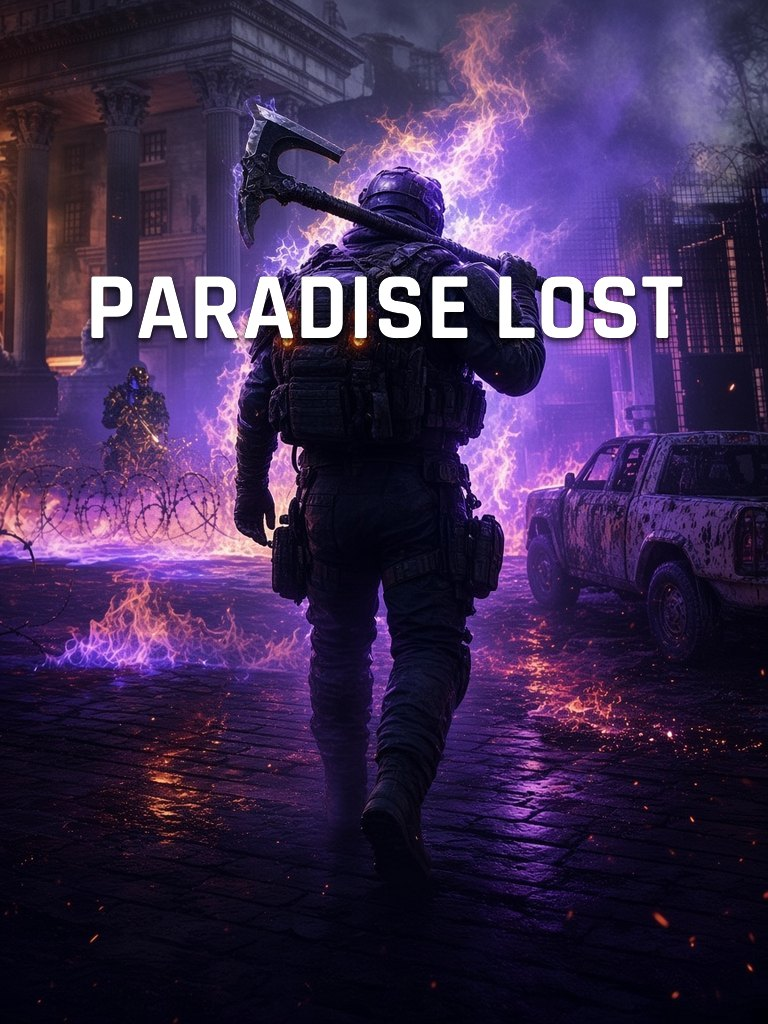
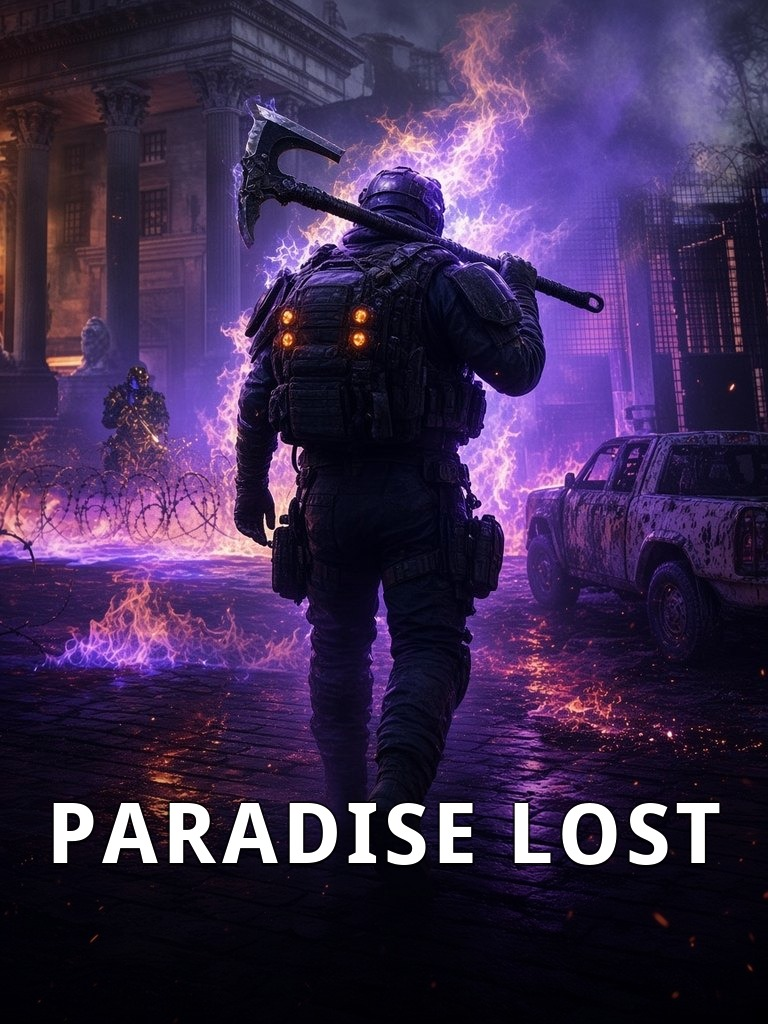
Move clan card titles down and caption the built-in art grid.
Raid and incursion titles sit in the lower quarter of the art. The Dark Zone mark uses the same worn treatment and placement as Conflict, and Conflict is slightly smaller.

diff --git a/admin.html b/admin.html
@@ -6,12 +6,12 @@
   <meta http-equiv="Cache-Control" content="no-cache, no-store, must-revalidate">
   <meta http-equiv="Pragma" content="no-cache">
   <meta http-equiv="Expires" content="0">
-  <meta name="stf-build" content="b1569be">
+  <meta name="stf-build" content="card-art1">
   <meta name="viewport" content="width=device-width, initial-scale=1">
   <meta name="theme-color" content="#0B0D10">
   <title>Admin — Shade Hub</title>
   <link rel="icon" href="assets/clan-mark.svg" type="image/svg+xml">
-  <link rel="stylesheet" href="styles.css?v=b1569be">
+  <link rel="stylesheet" href="styles.css?v=card-art1">
   <link rel="stylesheet" href="https://cdn.jsdelivr.net/npm/quill@1.3.7/dist/quill.snow.css">
 </head>
 <body class="page-admin is-logged-out">
@@ -251,17 +251,17 @@
   <script src="https://cdn.jsdelivr.net/npm/@supabase/supabase-js@2"></script>
   <script src="https://cdn.jsdelivr.net/npm/dompurify@3.2.4/dist/purify.min.js"></script>
   <script src="https://cdn.jsdelivr.net/npm/quill@1.3.7/dist/quill.min.js"></script>
-<script src="js/supabase.js?v=b1569be"></script>
-  <script src="js/common.js?v=b1569be"></script>
-  <script src="js/event-cards.js?v=b1569be"></script>
-  <script src="js/icons.js?v=b1569be"></script>
-  <script src="js/build-admin.js?v=b1569be"></script>
-  <script src="js/builder/engine.js?v=b1569be"></script>
-  <script src="js/builder/catalog.js?v=b1569be"></script>
-  <script src="js/builder/calc.js?v=b1569be"></script>
-  <script src="js/builder/calc-ui.js?v=b1569be"></script>
-  <script src="js/builder/ui.js?v=b1569be"></script>
-  <script src="js/admin.js?v=b1569be"></script>
+<script src="js/supabase.js?v=card-art1"></script>
+  <script src="js/common.js?v=card-art1"></script>
+  <script src="js/event-cards.js?v=card-art1"></script>
+  <script src="js/icons.js?v=card-art1"></script>
+  <script src="js/build-admin.js?v=card-art1"></script>
+  <script src="js/builder/engine.js?v=card-art1"></script>
+  <script src="js/builder/catalog.js?v=card-art1"></script>
+  <script src="js/builder/calc.js?v=card-art1"></script>
+  <script src="js/builder/calc-ui.js?v=card-art1"></script>
+  <script src="js/builder/ui.js?v=card-art1"></script>
+  <script src="js/admin.js?v=card-art1"></script>
 <script data-stf-toast>
 (function () {
   var meta = document.querySelector('meta[name="stf-build"]');

diff --git a/resources.html b/resources.html
@@ -5,12 +5,12 @@
   <meta http-equiv="Cache-Control" content="no-cache, no-store, must-revalidate">
   <meta http-equiv="Pragma" content="no-cache">
   <meta http-equiv="Expires" content="0">
-  <meta name="stf-build" content="b1569be">
+  <meta name="stf-build" content="card-art1">
   <meta name="viewport" content="width=device-width, initial-scale=1, viewport-fit=cover">
   <meta name="theme-color" content="#0B0D10">
   <title>Resources — Shade Hub</title>
   <link rel="icon" href="assets/clan-mark.svg" type="image/svg+xml">
-  <link rel="stylesheet" href="styles.css?v=b1569be">
+  <link rel="stylesheet" href="styles.css?v=card-art1">
 </head>
 <body class="page-resources">
   <div id="topbar-root"></div>
@@ -51,13 +51,13 @@
   <div id="bottomnav-root"></div>
   <script src="https://cdn.jsdelivr.net/npm/@supabase/supabase-js@2"></script>
   <script src="https://cdn.jsdelivr.net/npm/dompurify@3.2.4/dist/purify.min.js"></script>
-  <script src="js/supabase.js?v=b1569be"></script>
-  <script src="js/common.js?v=b1569be"></script>
-  <script src="js/icons.js?v=b1569be"></script>
-  <script src="js/builder/engine.js?v=b1569be"></script>
-  <script src="js/builder/catalog.js?v=b1569be"></script>
-  <script src="js/resources.js?v=b1569be"></script>
-  <script src="js/builds.js?v=b1569be"></script>
+  <script src="js/supabase.js?v=card-art1"></script>
+  <script src="js/common.js?v=card-art1"></script>
+  <script src="js/icons.js?v=card-art1"></script>
+  <script src="js/builder/engine.js?v=card-art1"></script>
+  <script src="js/builder/catalog.js?v=card-art1"></script>
+  <script src="js/resources.js?v=card-art1"></script>
+  <script src="js/builds.js?v=card-art1"></script>
 <script data-stf-toast>
 (function () {
   var meta = document.querySelector('meta[name="stf-build"]');

diff --git a/index.html b/index.html
@@ -5,13 +5,13 @@
   <meta http-equiv="Cache-Control" content="no-cache, no-store, must-revalidate">
   <meta http-equiv="Pragma" content="no-cache">
   <meta http-equiv="Expires" content="0">
-  <meta name="stf-build" content="b1569be">
+  <meta name="stf-build" content="card-art1">
   <meta name="viewport" content="width=device-width, initial-scale=1, viewport-fit=cover">
   <meta name="theme-color" content="#0B0D10">
   <meta name="description" content="Shade Hub — Division 2 clan updates, events, loot, builds, and resources.">
   <title>Updates — Shade Hub</title>
   <link rel="icon" href="assets/clan-mark.svg" type="image/svg+xml">
-  <link rel="stylesheet" href="styles.css?v=b1569be">
+  <link rel="stylesheet" href="styles.css?v=card-art1">
 </head>
 <body class="page-updates">
   <div id="topbar-root"></div>
@@ -26,9 +26,9 @@
   <div id="bottomnav-root"></div>
   <script src="https://cdn.jsdelivr.net/npm/@supabase/supabase-js@2"></script>
   <script src="https://cdn.jsdelivr.net/npm/dompurify@3.2.4/dist/purify.min.js"></script>
-  <script src="js/supabase.js?v=b1569be"></script>
-  <script src="js/common.js?v=b1569be"></script>
-  <script src="js/updates.js?v=b1569be"></script>
+  <script src="js/supabase.js?v=card-art1"></script>
+  <script src="js/common.js?v=card-art1"></script>
+  <script src="js/updates.js?v=card-art1"></script>
 <script data-stf-toast>
 (function () {
   var meta = document.querySelector('meta[name="stf-build"]');

diff --git a/events.html b/events.html
@@ -5,12 +5,12 @@
   <meta http-equiv="Cache-Control" content="no-cache, no-store, must-revalidate">
   <meta http-equiv="Pragma" content="no-cache">
   <meta http-equiv="Expires" content="0">
-  <meta name="stf-build" content="b1569be">
+  <meta name="stf-build" content="card-art1">
   <meta name="viewport" content="width=device-width, initial-scale=1, viewport-fit=cover">
   <meta name="theme-color" content="#0B0D10">
   <title>Events — Shade Hub</title>
   <link rel="icon" href="assets/clan-mark.svg" type="image/svg+xml">
-  <link rel="stylesheet" href="styles.css?v=b1569be">
+  <link rel="stylesheet" href="styles.css?v=card-art1">
 </head>
 <body class="page-events">
   <div id="topbar-root"></div>
@@ -33,10 +33,10 @@
   <div id="bottomnav-root"></div>
   <script src="https://cdn.jsdelivr.net/npm/@supabase/supabase-js@2"></script>
   <script src="https://cdn.jsdelivr.net/npm/dompurify@3.2.4/dist/purify.min.js"></script>
-  <script src="js/supabase.js?v=b1569be"></script>
-  <script src="js/common.js?v=b1569be"></script>
-  <script src="js/event-cards.js?v=b1569be"></script>
-  <script src="js/events.js?v=b1569be"></script>
+  <script src="js/supabase.js?v=card-art1"></script>
+  <script src="js/common.js?v=card-art1"></script>
+  <script src="js/event-cards.js?v=card-art1"></script>
+  <script src="js/events.js?v=card-art1"></script>
 <script data-stf-toast>
 (function () {
   var meta = document.querySelector('meta[name="stf-build"]');

diff --git a/loot.html b/loot.html
@@ -5,12 +5,12 @@
   <meta http-equiv="Cache-Control" content="no-cache, no-store, must-revalidate">
   <meta http-equiv="Pragma" content="no-cache">
   <meta http-equiv="Expires" content="0">
-  <meta name="stf-build" content="b1569be">
+  <meta name="stf-build" content="card-art1">
   <meta name="viewport" content="width=device-width, initial-scale=1, viewport-fit=cover">
   <meta name="theme-color" content="#0B0D10">
   <title>Loot — Shade Hub</title>
   <link rel="icon" href="assets/clan-mark.svg" type="image/svg+xml">
-  <link rel="stylesheet" href="styles.css?v=b1569be">
+  <link rel="stylesheet" href="styles.css?v=card-art1">
 </head>
 <body class="page-loot">
   <div id="topbar-root"></div>
@@ -22,10 +22,10 @@
   <div id="bottomnav-root"></div>
   <script src="https://cdn.jsdelivr.net/npm/@supabase/supabase-js@2"></script>
   <script src="https://cdn.jsdelivr.net/npm/dompurify@3.2.4/dist/purify.min.js"></script>
-  <script src="js/supabase.js?v=b1569be"></script>
-  <script src="js/common.js?v=b1569be"></script>
-  <script src="js/icons.js?v=b1569be"></script>
-  <script src="js/loot.js?v=b1569be"></script>
+  <script src="js/supabase.js?v=card-art1"></script>
+  <script src="js/common.js?v=card-art1"></script>
+  <script src="js/icons.js?v=card-art1"></script>
+  <script src="js/loot.js?v=card-art1"></script>
 <script data-stf-toast>
 (function () {
   var meta = document.querySelector('meta[name="stf-build"]');

diff --git a/js/event-cards.js b/js/event-cards.js
@@ -100,8 +100,39 @@
       .join(" ");
   }
 
+  var CAPTIONS = {
+    ambush: "Global Event: Ambush",
+    assault: "Global Event: Assault",
+    "shd-exposed": "Global Event: SHD Exposed",
+    "rage-harvest": "Global Event: Rage Harvest",
+    "vanguard-overdrive": "Global Event: Vanguard Overdrive",
+    "deadeye-overdrive": "Global Event: Deadeye Overdrive",
+    "redline-overdrive": "Global Event: Redline Overdrive",
+    "red-moon-unleashed": "Season Event: Red Moon Unleashed",
+    "countdown-surge": "Countdown Surge",
+    "dark-zone-surge": "Dark Zone Surge",
+    "expertise-surge": "Expertise Surge",
+    "optimization-surge": "Optimization Surge",
+    "retaliation-surge": "Retaliation Surge",
+    "prototype-surge": "Prototype Surge",
+    "proficiency-xp-event": "Proficiency XP Event",
+    "shepherd-xp-x3": "Shepherd XP ×3",
+    "x5-xp-event": "XP Event",
+    "dark-zone": "Dark Zone",
+    conflict: "Conflict",
+    "dark-hours": "Dark Hours",
+    "iron-horse": "Iron Horse",
+    "paradise-lost": "Paradise Lost",
+    "broken-rain": "Broken Rain"
+  };
+
   STF.EVENT_CARDS = SLUGS.map(function (slug) {
-    return { slug: slug, file: fileFor(slug), label: labelFor(slug) };
+    return {
+      slug: slug,
+      file: fileFor(slug),
+      label: labelFor(slug),
+      caption: CAPTIONS[slug] || labelFor(slug)
+    };
   });
 
   var CLAN_MATCHES = [

diff --git a/chat.html b/chat.html
@@ -5,12 +5,12 @@
   <meta http-equiv="Cache-Control" content="no-cache, no-store, must-revalidate">
   <meta http-equiv="Pragma" content="no-cache">
   <meta http-equiv="Expires" content="0">
-  <meta name="stf-build" content="b1569be">
+  <meta name="stf-build" content="card-art1">
   <meta name="viewport" content="width=device-width, initial-scale=1, viewport-fit=cover">
   <meta name="theme-color" content="#0B0D10">
   <title>Chat — Shade Hub</title>
   <link rel="icon" href="assets/clan-mark.svg" type="image/svg+xml">
-  <link rel="stylesheet" href="styles.css?v=b1569be">
+  <link rel="stylesheet" href="styles.css?v=card-art1">
 </head>
 <body class="page-chat">
   <div id="topbar-root"></div>
@@ -25,9 +25,9 @@
   <div id="bottomnav-root"></div>
   <script src="https://cdn.jsdelivr.net/npm/@supabase/supabase-js@2"></script>
   <script src="https://cdn.jsdelivr.net/npm/dompurify@3.2.4/dist/purify.min.js"></script>
-  <script src="js/supabase.js?v=b1569be"></script>
-  <script src="js/common.js?v=b1569be"></script>
-  <script src="js/chat.js?v=b1569be"></script>
+  <script src="js/supabase.js?v=card-art1"></script>
+  <script src="js/common.js?v=card-art1"></script>
+  <script src="js/chat.js?v=card-art1"></script>
 <script data-stf-toast>
 (function () {
   var meta = document.querySelector('meta[name="stf-build"]');

diff --git a/styles.css b/styles.css
@@ -2453,7 +2453,7 @@ body.page-events .tl-art {
   height: 100%;
   max-width: none;
   object-fit: cover;
-  object-position: center 40%;
+  object-position: center 78%;
   z-index: 0;
 }
 .tl-art.has-card::before {
@@ -2481,24 +2481,37 @@ body.page-events .tl-art {
 }
 .art-pick {
   display: grid;
-  grid-template-columns: repeat(auto-fill, minmax(72px, 1fr));
-  gap: 8px;
+  grid-template-columns: repeat(auto-fill, minmax(128px, 1fr));
+  gap: 10px;
 }
 .art-thumb {
+  display: flex;
+  flex-direction: column;
   padding: 0;
   border: 1px solid rgba(255,255,255,.35);
   background: #101114;
-  aspect-ratio: 3 / 4;
   overflow: hidden;
+  text-align: center;
 }
 .art-thumb.is-on { outline: 2px solid var(--orange); outline-offset: 1px; }
 .art-thumb img {
   width: 100%;
-  height: 100%;
+  height: auto;
+  aspect-ratio: 3 / 4;
   max-width: none;
   object-fit: cover;
-  object-position: center 40%;
+  object-position: center center;
   display: block;
+}
+.art-thumb span {
+  display: block;
+  padding: 5px 4px 6px;
+  color: #d5d8de;
+  font-family: var(--font);
+  font-size: .62rem;
+  font-weight: 600;
+  line-height: 1.2;
+  letter-spacing: .01em;
 }
 .tl-tag.is-live { background: var(--orange); color: #1a0d00; }
 .tl-tag.is-soon { background: transparent; color: #fff; border: 1px solid rgba(255,255,255,.7); }

diff --git a/season.html b/season.html
@@ -5,12 +5,12 @@
   <meta http-equiv="Cache-Control" content="no-cache, no-store, must-revalidate">
   <meta http-equiv="Pragma" content="no-cache">
   <meta http-equiv="Expires" content="0">
-  <meta name="stf-build" content="b1569be">
+  <meta name="stf-build" content="card-art1">
   <meta name="viewport" content="width=device-width, initial-scale=1, viewport-fit=cover">
   <meta name="theme-color" content="#0B0C0E">
   <title>Season — Shade Hub</title>
   <link rel="icon" href="assets/clan-mark.svg" type="image/svg+xml">
-  <link rel="stylesheet" href="styles.css?v=b1569be">
+  <link rel="stylesheet" href="styles.css?v=card-art1">
 </head>
 <body>
   <div id="topbar-root"></div>
@@ -39,9 +39,9 @@
   <div id="bottomnav-root"></div>
   <script src="https://cdn.jsdelivr.net/npm/@supabase/supabase-js@2"></script>
   <script src="https://cdn.jsdelivr.net/npm/dompurify@3.2.4/dist/purify.min.js"></script>
-  <script src="js/supabase.js?v=b1569be"></script>
-  <script src="js/common.js?v=b1569be"></script>
-  <script src="js/season.js?v=b1569be"></script>
+  <script src="js/supabase.js?v=card-art1"></script>
+  <script src="js/common.js?v=card-art1"></script>
+  <script src="js/season.js?v=card-art1"></script>
 <script data-stf-toast>
 (function () {
   var meta = document.querySelector('meta[name="stf-build"]');

diff --git a/js/admin.js b/js/admin.js
@@ -136,7 +136,8 @@
       if (!host || host.dataset.ready) return;
       host.dataset.ready = "1";
       host.innerHTML = STF.EVENT_CARDS.map(function (card) {
-        return '<button type="button" class="art-thumb" data-art="' + STF.esc(card.file) + '" title="' + STF.esc(card.label) + '"><img src="' + STF.esc(card.file) + '" alt="' + STF.esc(card.label) + '"></button>';
+        var caption = card.caption || card.label;
+        return '<button type="button" class="art-thumb" data-art="' + STF.esc(card.file) + '" title="' + STF.esc(caption) + '"><img src="' + STF.esc(card.file) + '" alt="' + STF.esc(caption) + '"><span>' + STF.esc(caption) + "</span></button>";
       }).join("");
       host.addEventListener("click", function (e) {
         var btn = e.target.closest("[data-art]");

diff --git a/builds.html b/builds.html
@@ -5,10 +5,10 @@
   <meta http-equiv="Cache-Control" content="no-cache, no-store, must-revalidate">
   <meta http-equiv="Pragma" content="no-cache">
   <meta http-equiv="Expires" content="0">
-  <meta name="stf-build" content="b1569be">
+  <meta name="stf-build" content="card-art1">
   <meta name="viewport" content="width=device-width, initial-scale=1, viewport-fit=cover">
   <title>Builds — Shade Hub</title>
-  <link rel="stylesheet" href="styles.css?v=b1569be">
+  <link rel="stylesheet" href="styles.css?v=card-art1">
   <script>location.replace("resources.html?tab=builds" + (location.hash || ""));</script>
 </head>
 <body>
